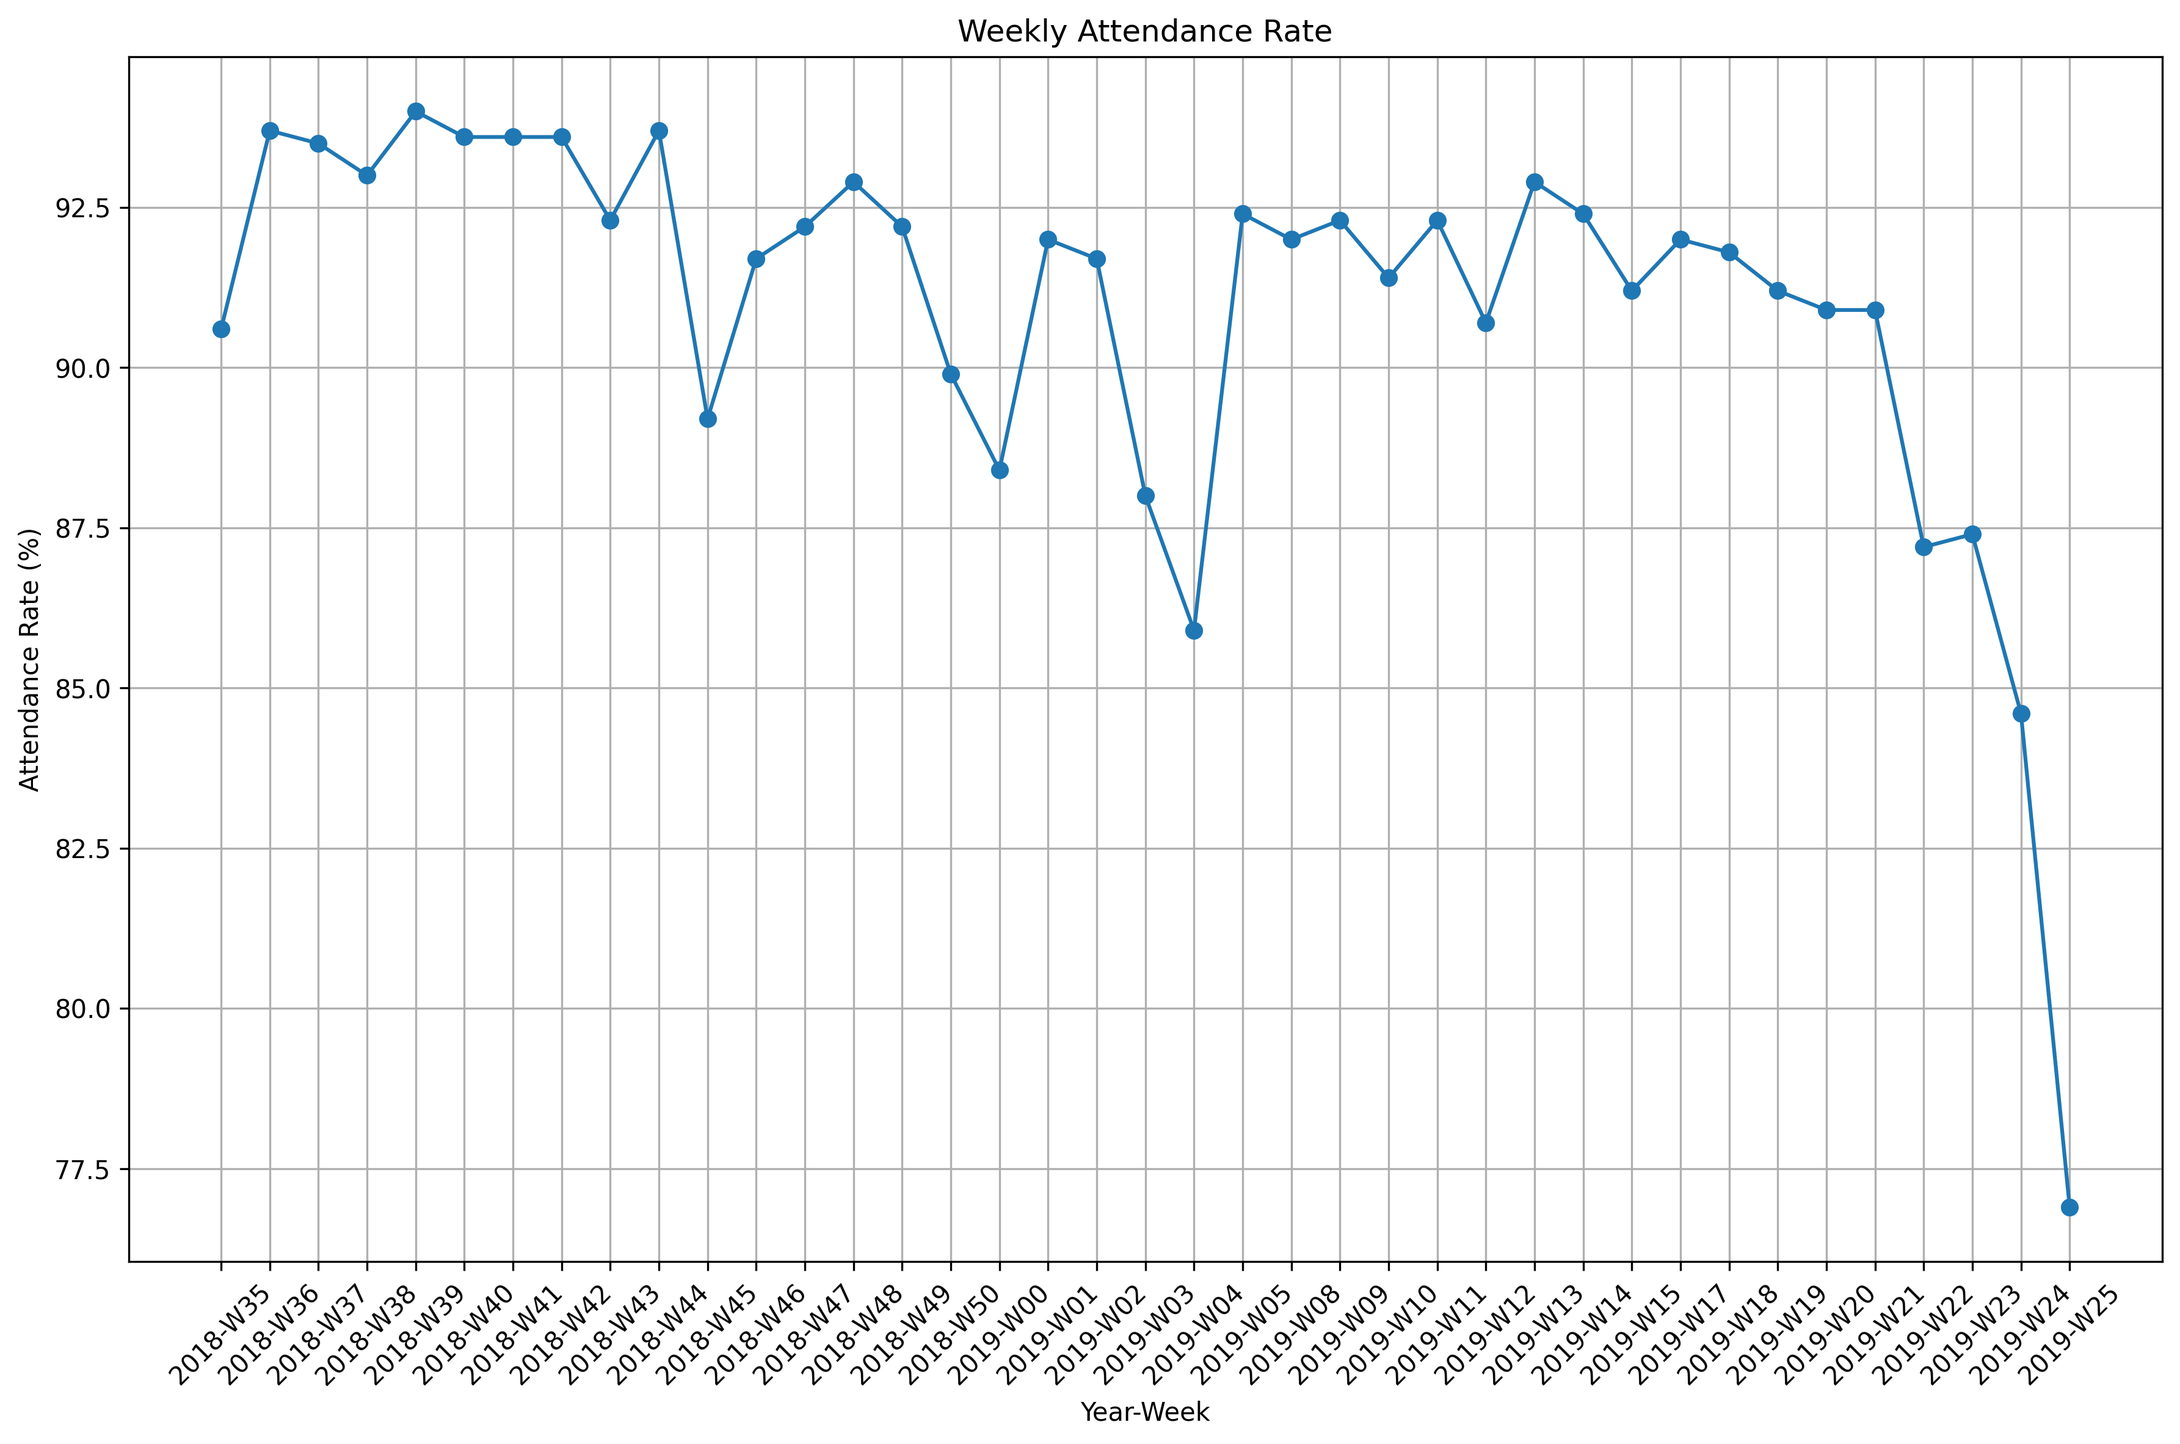
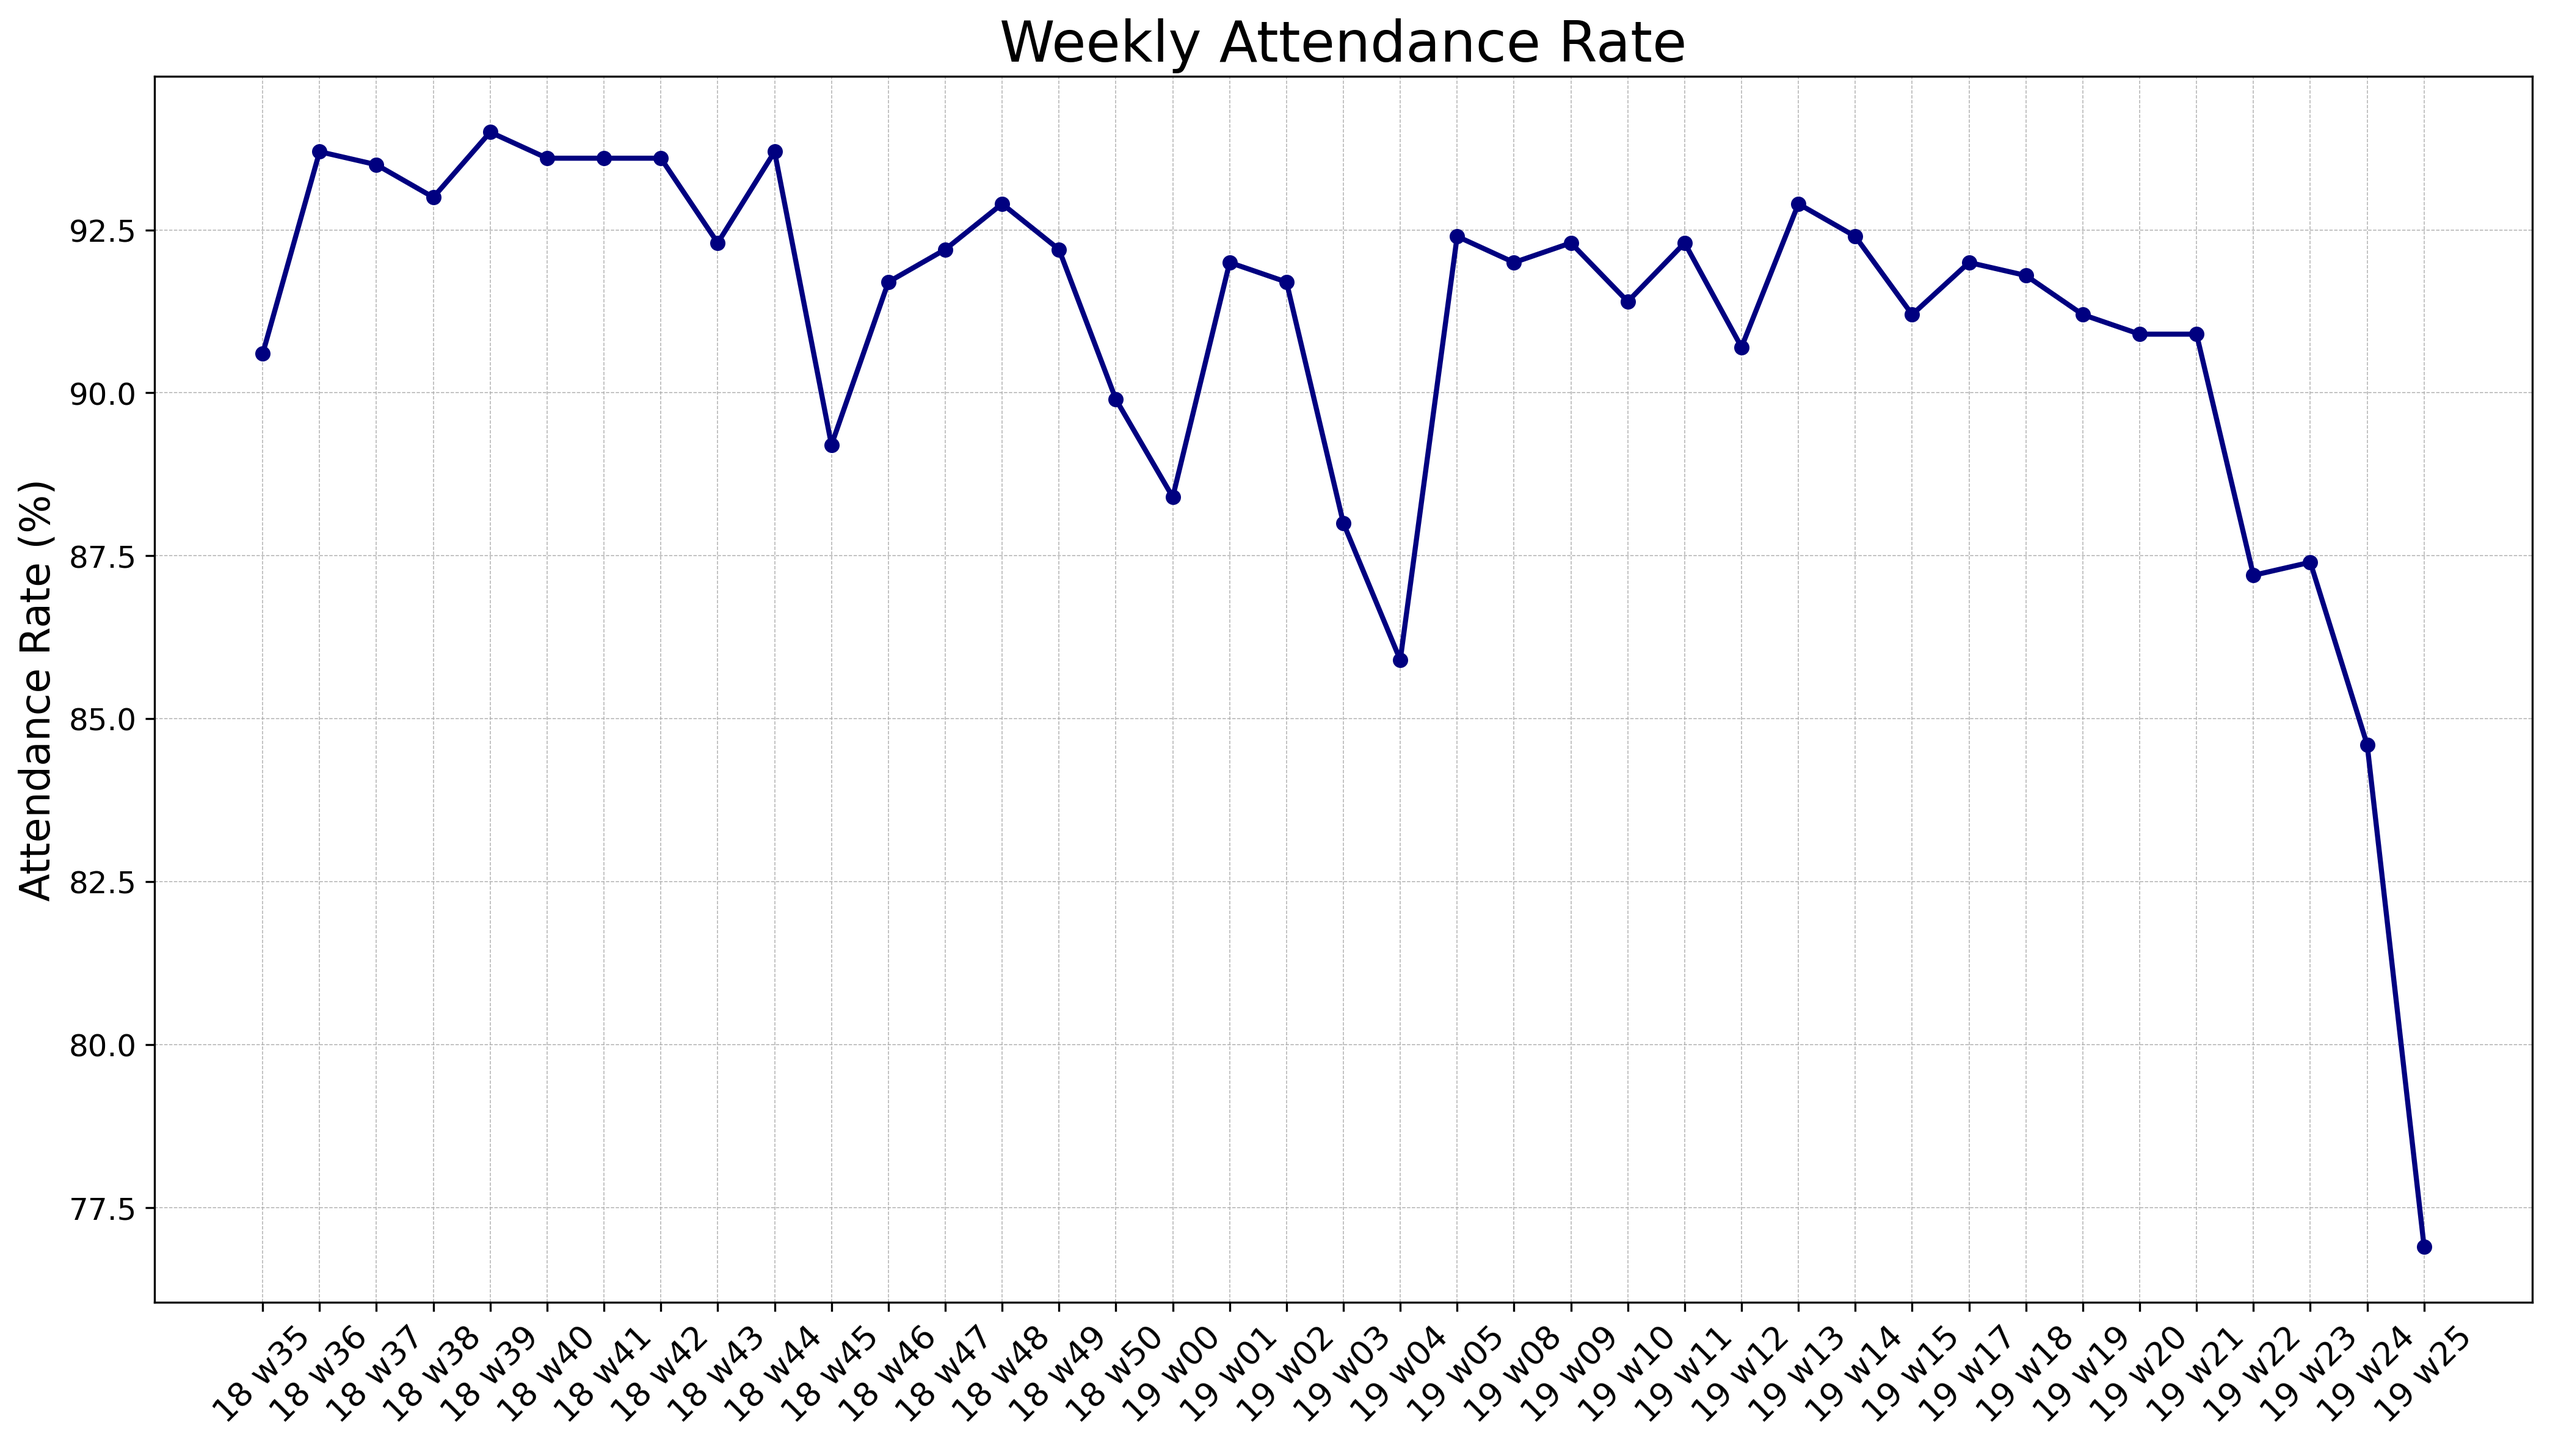
line

diff --git a/8_Kaggle_Df/Attend/Attendance.py b/8_Kaggle_Df/Attend/Attendance.py
@@ -16,7 +16,7 @@ df.head()
 
 #%%
 # Create 'year_week' column
-df['year_week'] = df['Date'].dt.strftime('%Y-W%U')
+df['year_week'] = df['Date'].dt.strftime('%y w%U')
 
 # Group by 'year_week' and aggregate
 df_agg = df.groupby(['year_week']).agg(
@@ -27,7 +27,7 @@ df_agg = df.groupby(['year_week']).agg(
     ).reset_index()
 
 # Remove rows with specific year_week
-df_agg = df_agg[~df_agg['year_week'].isin(['2019-W06', '2019-W07'])]
+df_agg = df_agg[~df_agg['year_week'].isin(['19 w06', '19 w07'])]
 df_agg.head()
 
 
@@ -36,13 +36,19 @@ df_agg.head()
 df_agg['at_rate'] = round(df_agg['Present'] * 100 / df_agg['Enrolled'], 1)
 
 # Plot the attendance rate by year_week
-plt.figure(figsize=(12, 8))
-plt.plot(df_agg['year_week'], df_agg['at_rate'], marker='o', linestyle='-')
-plt.xlabel('Year-Week')
-plt.ylabel('Attendance Rate (%)')
-plt.title('Weekly Attendance Rate')
-plt.xticks(rotation=45)
-plt.grid(True)
+plt.figure(figsize=(14, 8))
+plt.plot(df_agg['year_week'], df_agg['at_rate'], 
+         marker='o', 
+         linestyle='-', 
+         color='navy', 
+         linewidth=2, 
+         markersize=5
+         )
+plt.ylabel('Attendance Rate (%)', fontsize=16)
+plt.title('Weekly Attendance Rate', fontsize=22)
+plt.xticks(rotation=45, fontsize=13)
+plt.yticks(fontsize=12)
+plt.grid(True, linestyle='--', linewidth=0.36)
 plt.tight_layout()
 
 # Save the plot as an image file
